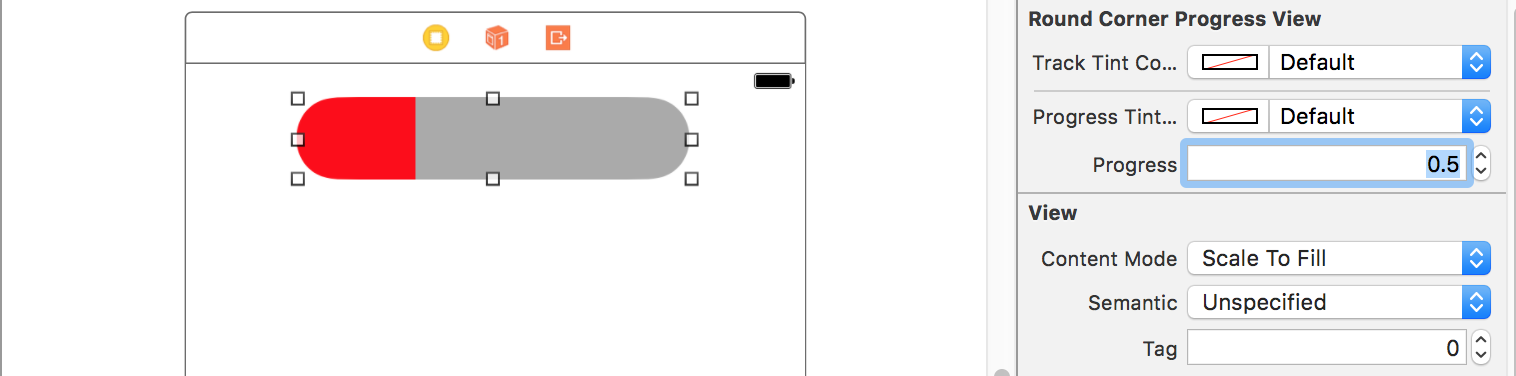
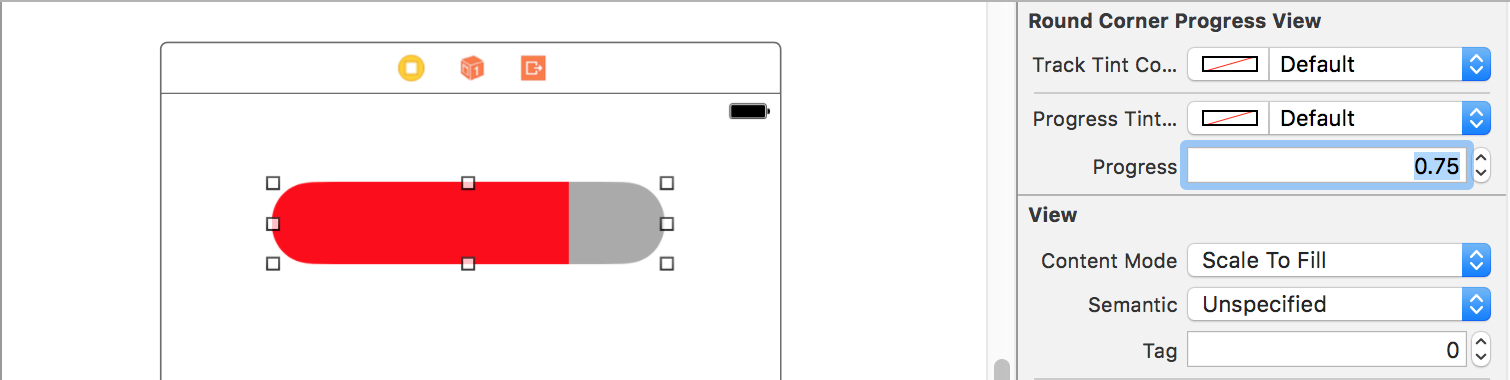
Fix not update on IB

Changed region(s): [[0.0, 0.0, 1.0, 1.0], [0.6536, 0.5266, 0.7159, 0.5851], [0.747, 0.9069, 0.8093, 0.9654]]

diff --git a/RoundCornerProgressView/RoundCornerProgressView.swift b/RoundCornerProgressView/RoundCornerProgressView.swift
@@ -46,13 +46,8 @@ public class RoundCornerProgressView: UIView {
             } else if progress > 1 {
                 progress = 1
             }
-            DispatchQueue.main.async {
-                UIView.animate(withDuration: 0.1, delay: 0, options: .curveEaseIn, animations: {
-                    self.progressView.frame = CGRect(origin: self.progressView.frame.origin, size: CGSize(width: self.frame.width * self.progress, height: self.frame.height))
-                    self.progressView.roundCorner(roundingCorners: self.progressRoundCorners, cornerRadius: CGSize(width: self.frame.size.height / 2, height: self.frame.size.height / 2))
-                }, completion: nil)
-            }
-            
+            self.progressView.frame = CGRect(origin: self.progressView.frame.origin, size: CGSize(width: self.frame.width * self.progress, height: self.frame.height))
+            self.progressView.roundCorner(roundingCorners: self.progressRoundCorners, cornerRadius: CGSize(width: self.frame.size.height / 2, height: self.frame.size.height / 2))
         }
     }
     
